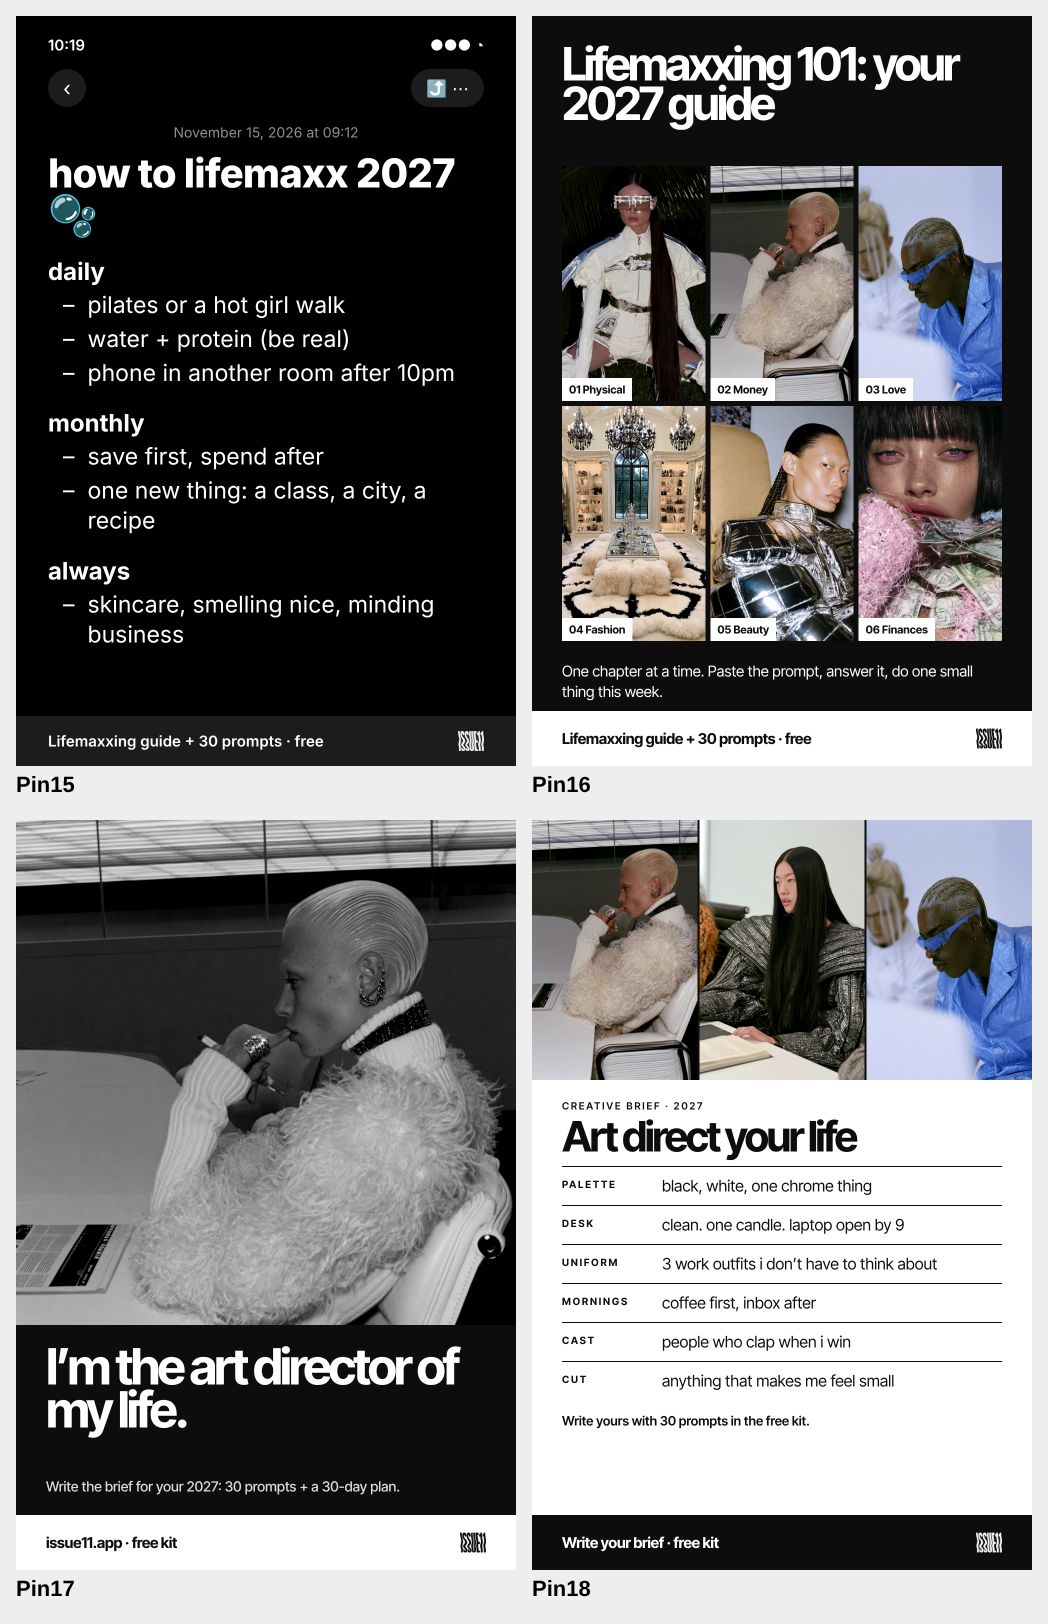
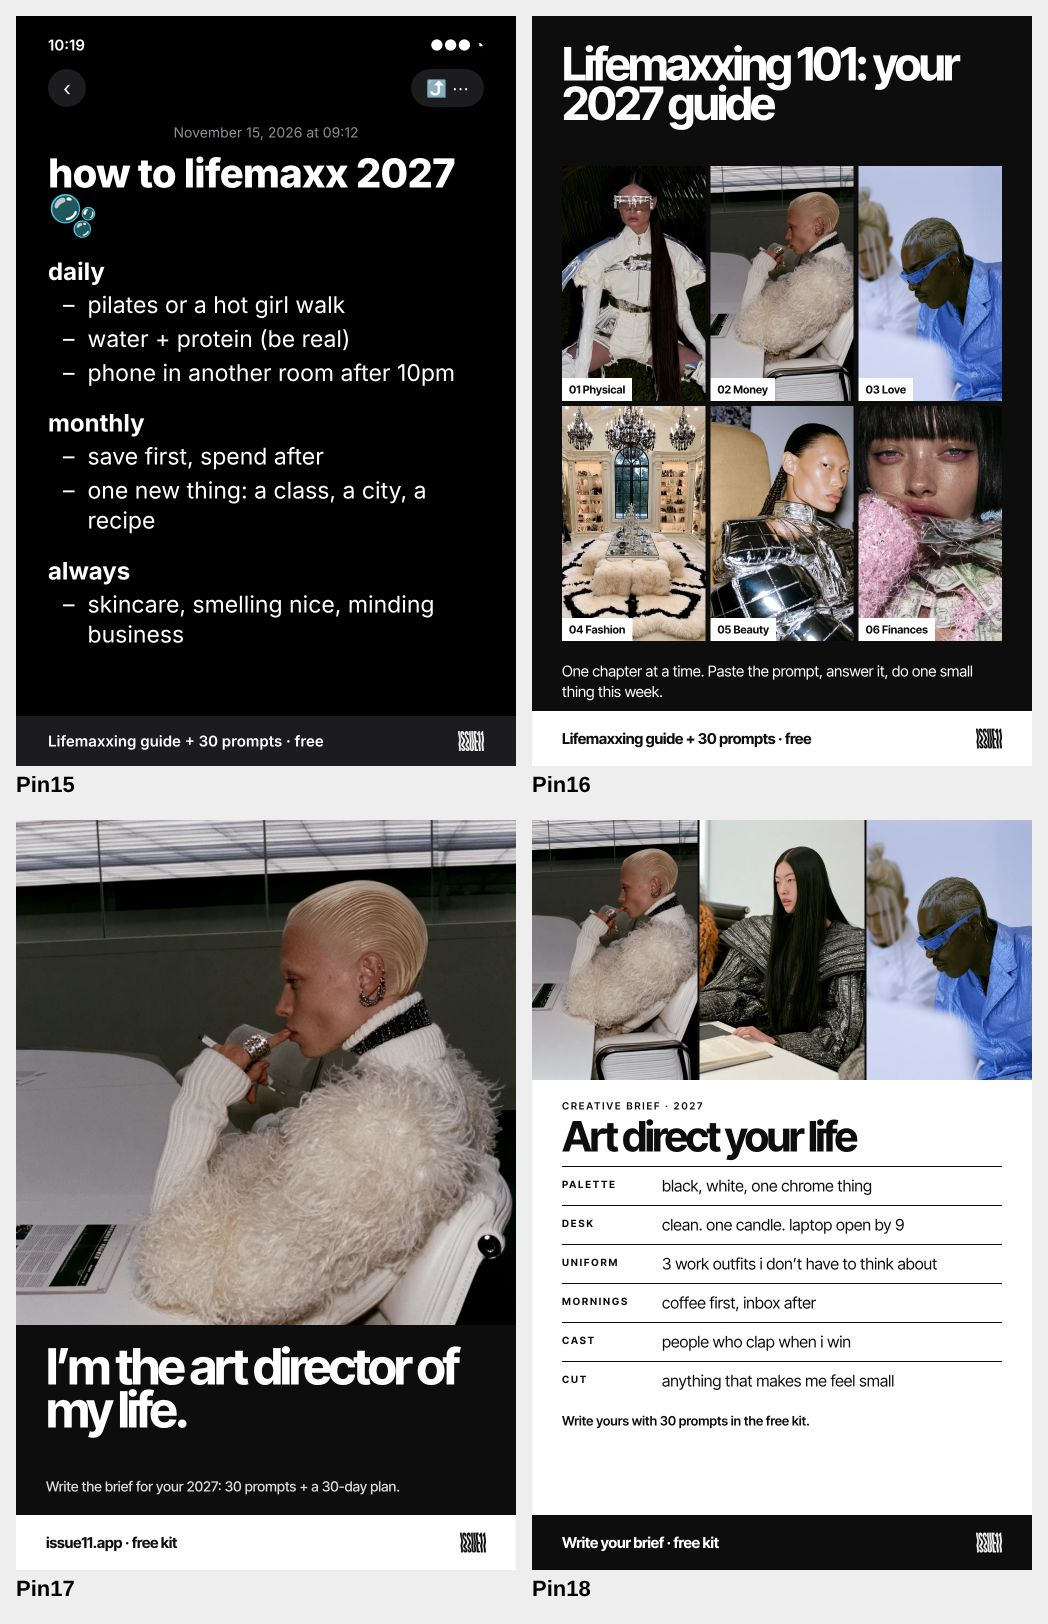
Pins: no B&W photos (Megan); image request list
Claude-Session: https://claude.ai/code/session_013zCndAMB566ZdjtTW5BiS4

Changed region(s): [[0.2137, 0.5234, 0.4275, 0.6773]]

diff --git a/drafts/pinterest/batch1/Pin17.dc.html b/drafts/pinterest/batch1/Pin17.dc.html
@@ -12,7 +12,7 @@
 <style>body{margin:0}</style>
 </helmet>
 <div style="width:1000px; height:1500px; position:relative; overflow:hidden; background:#0D0D0D; font-family:'Inter Tight', 'Apple Color Emoji','Noto Color Emoji','Segoe UI Emoji', sans-serif; color:#0D0D0D">
-<img src="/_blob/3ffd68c0b9a6904c16daec8559ee45b3" alt="Aspirational editorial photo" style="display:block; object-fit:cover; object-position:50% 8%; position:absolute; left:0; top:0; width:1000px; height:1010px; filter:grayscale(1) contrast(1.18) brightness(0.96)"><p style="position:absolute; left:60px; right:60px; top:1050px; margin:0; color:#FFFFFF; font-size:100px; font-weight:700; letter-spacing:-0.06em; line-height:0.86">I’m the art director of my life.</p><p style="position:absolute; left:60px; right:60px; bottom:150px; margin:0; color:#FFFFFF; font-size:28px; font-weight:500; opacity:0.85">Write the brief for your 2027: 30 prompts + a 30-day plan.</p><div style="position:absolute; left:0; right:0; bottom:0; height:110px; padding:0 60px; box-sizing:border-box; background:#FFFFFF; color:#0D0D0D; display:flex; justify-content:space-between; align-items:center"><span style="font-size:30px; font-weight:700; letter-spacing:-0.02em">issue11.app · free kit</span><img src="/_blob/d196614efc6265e2205729134fb523b8" alt="ISSUE11" style="height:40px; width:auto;  "></div>
+<img src="/_blob/3ffd68c0b9a6904c16daec8559ee45b3" alt="Aspirational editorial photo" style="display:block; object-fit:cover; object-position:50% 8%; position:absolute; left:0; top:0; width:1000px; height:1010px; filter:contrast(1.06) saturate(0.95)"><p style="position:absolute; left:60px; right:60px; top:1050px; margin:0; color:#FFFFFF; font-size:100px; font-weight:700; letter-spacing:-0.06em; line-height:0.86">I’m the art director of my life.</p><p style="position:absolute; left:60px; right:60px; bottom:150px; margin:0; color:#FFFFFF; font-size:28px; font-weight:500; opacity:0.85">Write the brief for your 2027: 30 prompts + a 30-day plan.</p><div style="position:absolute; left:0; right:0; bottom:0; height:110px; padding:0 60px; box-sizing:border-box; background:#FFFFFF; color:#0D0D0D; display:flex; justify-content:space-between; align-items:center"><span style="font-size:30px; font-weight:700; letter-spacing:-0.02em">issue11.app · free kit</span><img src="/_blob/d196614efc6265e2205729134fb523b8" alt="ISSUE11" style="height:40px; width:auto;  "></div>
 </div>
 </x-dc>
 <script type="text/x-dc" data-dc-script data-props='{"$preview":{"width":1000,"height":1500}}'>

diff --git a/drafts/pinterest/batch1/Pin08.dc.html b/drafts/pinterest/batch1/Pin08.dc.html
@@ -12,7 +12,7 @@
 <style>body{margin:0}</style>
 </helmet>
 <div style="width:1000px; height:1500px; position:relative; overflow:hidden; background:#0D0D0D; font-family:'Inter Tight', 'Apple Color Emoji','Noto Color Emoji','Segoe UI Emoji', sans-serif; color:#0D0D0D">
-<img src="/_blob/9034e8205048f219499561307a1c9748" alt="Aspirational editorial photo" style="display:block; object-fit:cover; object-position:50% 20%; position:absolute; left:0; top:0; width:1000px; height:1010px; filter:grayscale(1) contrast(1.18) brightness(0.96)"><p style="position:absolute; left:60px; right:60px; top:1050px; margin:0; color:#FFFFFF; font-size:100px; font-weight:700; letter-spacing:-0.06em; line-height:0.86">I’m not behind. I’m becoming.</p><p style="position:absolute; left:60px; right:60px; bottom:150px; margin:0; color:#FFFFFF; font-size:28px; font-weight:500; opacity:0.85">A 30-day self improvement plan, 5 minutes a day.</p><div style="position:absolute; left:0; right:0; bottom:0; height:110px; padding:0 60px; box-sizing:border-box; background:#FFFFFF; color:#0D0D0D; display:flex; justify-content:space-between; align-items:center"><span style="font-size:30px; font-weight:700; letter-spacing:-0.02em">issue11.app · free kit</span><img src="/_blob/d196614efc6265e2205729134fb523b8" alt="ISSUE11" style="height:40px; width:auto;  "></div>
+<img src="/_blob/9034e8205048f219499561307a1c9748" alt="Aspirational editorial photo" style="display:block; object-fit:cover; object-position:50% 20%; position:absolute; left:0; top:0; width:1000px; height:1010px; filter:contrast(1.06) saturate(0.95)"><p style="position:absolute; left:60px; right:60px; top:1050px; margin:0; color:#FFFFFF; font-size:100px; font-weight:700; letter-spacing:-0.06em; line-height:0.86">I’m not behind. I’m becoming.</p><p style="position:absolute; left:60px; right:60px; bottom:150px; margin:0; color:#FFFFFF; font-size:28px; font-weight:500; opacity:0.85">A 30-day self improvement plan, 5 minutes a day.</p><div style="position:absolute; left:0; right:0; bottom:0; height:110px; padding:0 60px; box-sizing:border-box; background:#FFFFFF; color:#0D0D0D; display:flex; justify-content:space-between; align-items:center"><span style="font-size:30px; font-weight:700; letter-spacing:-0.02em">issue11.app · free kit</span><img src="/_blob/d196614efc6265e2205729134fb523b8" alt="ISSUE11" style="height:40px; width:auto;  "></div>
 </div>
 </x-dc>
 <script type="text/x-dc" data-dc-script data-props='{"$preview":{"width":1000,"height":1500}}'>

diff --git a/drafts/pinterest/batch1/generator-v6.py b/drafts/pinterest/batch1/generator-v6.py
@@ -103,7 +103,7 @@ def p16():
 days=["Write your 2027 list","Pick 1 glow up habit","5-min morning","Walk 20 min","Clear one drawer","Money date","Text a friend","Say no, kindly","Plan 1 outfit","Skincare + water","Rest day","Your savings number","List your wins","Ask for more","Try a new class","Unfollow 10","Read 10 pages","Budget with fun","Cook something nice","Rest day","Letter from future you","1 brave email","Style 3 outfits","Early night","Weekly savings goal","Call your bestie","Glow up check-in","Reset your space","Rest day","Write your cover lines"]
 P=[("Pin03","Glow up checklist 2027 · B&W photo",p03()),("Pin04","ChatGPT prompts for self improvement · B&W",p04()),("Pin05","ChatGPT prompts 2027 rebrand · B&W",p05()),
    ("Pin07","Self improvement plan 2027 · B&W printable",p07()),
-   ("Pin08","Self improvement plan · B&W type card",bigtype("e27","I’m not behind. I’m becoming.","A 30-day self improvement plan, 5 minutes a day.",bw=True)),
+   ("Pin08","Self improvement plan · B&W type card",bigtype("e27","I’m not behind. I’m becoming.","A 30-day self improvement plan, 5 minutes a day.")),
    ("Pin10","How to rebrand yourself · B&W type card",bigtype("e22","Becoming me again, on purpose.","How to rebrand yourself in 2027: 30 prompts + a 30-day plan.")),
    ("Pin11","Personal rebrand prompts · B&W chapters",p11()),("Pin13","Future self letter · B&W",p13()),("Pin16","Lifemaxxing 101 · B&W",p16())]
 def p18():
@@ -112,7 +112,7 @@ def p18():
     rr="".join(f'<div style="display:grid; grid-template-columns:200px 1fr; padding:18px 0; border-top:2px solid {INK}"><b style="font-size:20px; letter-spacing:0.18em; text-transform:uppercase; padding-top:5px">{a}</b><span style="font-size:32px; line-height:1.25">{b}</span></div>' for a,b in rows)
     return (W, f'<div style="position:absolute; left:0; top:0; width:1000px; height:520px; overflow:hidden; display:grid; grid-template-columns:repeat(3,1fr); gap:4px; background:{INK}">{tiles}</div>'
       f'<div style="position:absolute; left:60px; right:60px; top:560px">{label("Creative brief · 2027")}<h1 style="margin:12px 0 22px; font-size:84px; font-weight:700; letter-spacing:-0.06em; line-height:0.88">Art direct your life</h1>{rr}<p style="margin:26px 0 0; font-size:26px; font-weight:600">Write yours with 30 prompts in the free kit.</p></div>'+foot("Write your brief · free kit"))
-P+=[("Pin17","Art director of my life · B&W type card",bigtype("e29","I’m the art director of my life.","Write the brief for your 2027: 30 prompts + a 30-day plan.",bw=True)),
+P+=[("Pin17","Art director of my life · B&W type card",bigtype("e29","I’m the art director of my life.","Write the brief for your 2027: 30 prompts + a 30-day plan.")),
     ("Pin18","Art direct your life · creative brief",p18())]
 c=json.load(open(f"{R}/project/canvas.json"))
 for k,t,(bg,inner) in P:

diff --git a/.pipeline/lessons.md b/.pipeline/lessons.md
@@ -537,3 +537,4 @@ Format: `- YYYY-MM-DD · <agent> · <what> · why · cost`
 - 2026-11-15 DECISION (Megan): "ok let's set up the API". This is the Pinterest API for real keyword volume ranges: GET /v5/ad_accounts/{id}/keywords/metrics, scope ads:read only (read-only). Steps: (1) ads account, (2) developer app + trial access, (3) token with ads:read only, (4) save it with request_credential for api.pinterest.com (never in chat). Then the Pinterest SEO agent uses it per batch. Check the token's expiry when it's set up and set a reminder.
 - 2026-11-15 RULE (Megan, word for word, shortened): "Before anything visual is called done: 1. Screenshot it and actually look, on desktop and on phone. 2. Faces and heads… 3. No stray logos or text… 4. Readable… 5. The image fits the topic… 6. On-brand… 7. Compare against what you asked for… 8. Re-check after publishing". Plus: "Give these instructions to any agent doing visual work please, and always ask it to self-improve and self-correct if things seem odd, cropped, or not relevant (example of non relevant content: A money picture for a beauty prompt)". Saved in design/VISUAL-QA.md, CLAUDE.md, the-editor.md, growth-pinterest-seo.md and MISE-EN-PAGE.md. This replaces "never screenshot unless asked".
 - 2026-11-15 LESSON: the first QA pass on pins v6 found 4 things. Square thumbnails were cutting heads (fixed by giving each thumbnail its own focal point). Closet photos were on the Beauty and Finances chapters (now matched to each chapter). Pin 05 and Pin 07 text was too small at 390px (now bigger, with fewer items). Pins 08 and 17 used the same photo. Check thumbnails and the 390px phone view every time.
+- 2026-11-15 RULE (Megan): "Also no images in black and white". Photos are always in colour, and only the pin design (type, frames, footers) is black and white. This replaces the earlier "a few B&W photos for contrast". Pins 08 and 17 are now in colour.

diff --git a/drafts/pinterest/IMAGE-REQUESTS.md b/drafts/pinterest/IMAGE-REQUESTS.md
@@ -1,0 +1,14 @@
+# Images we need (Megan offered to create them)
+
+Megan: "If you need a specific type of imagery thst correlates with the content please let me know and I'll create them".
+Specs for every shot: vertical 2:3 (for example 1000×1500 or larger), in colour (never black and white), room above the head (no cropped foreheads), no brand logos, car badges or readable text, and the same aspirational, editorial mood as the closet and money photos.
+
+| # | Shot | For which pins | Why |
+|---|---|---|---|
+| 1 | Vanity with skincare and perfume, a hand reaching for a bottle | Pins 11 + 16 (Beauty chapter), glow up checklist | We have no beauty photo; a fashion shot is standing in |
+| 2 | Woman writing in a journal (pen on paper, face partly visible) | Pins 13 + 14 (future self letter), the Journal Prompts lead magnet | All journal pins use a closet photo right now |
+| 3 | Desk with a laptop, an open magazine and coffee, a woman working | Pins 17 + 18 (art director of my life), Money chapter | Fits "art direct your life" better than the fashion office shots |
+| 4 | Pilates or a walk outside in a matching set | Pins 03 + 15 (glow up checklist, lifemaxxing), Physical chapter | Physical is currently a fashion shot |
+| 5 | Vision board on a wall or a table with cut-out pictures, pins and a hand | The vision board batch (next, before the New Year spike) | Vision board terms peak in late Dec / Jan |
+| 6 | A phone in hand showing a notes-app checklist (text unreadable or blurred) | Glow up checklist pins | Ties the Notes pins to a real moment |
+| 7 | Two or three friends laughing at dinner or brunch | Love chapter (Pins 11 + 16) | Love has a work photo right now |

diff --git a/.claude/agents/growth-pinterest-seo.md b/.claude/agents/growth-pinterest-seo.md
@@ -33,7 +33,7 @@ Research (data before ideas):
 Pin rules (approved by Megan, Nov 14–15, 2026):
 - **Copy the viral format, fill it with our offer.** Every pin points to one real lead magnet, and the pin shows what's inside it.
 - **Notes pins:** a dark iPhone Notes screenshot with no photos. They should sound like a real girl's phone: lowercase, concrete, a little messy ("drink water. actually"). Megan's own note is the bar: a short title, about 4 plain items, real numbers, one item ending in "?". Never copy Megan's personal goals.
-- **All other pins are photo-led:** big photos in colour, with high-contrast black and white design (type, frames, footers). A few B&W photos are fine for contrast. No pastel backgrounds, no ombré, no hot pink.
+- **All other pins are photo-led:** big photos in colour, with high-contrast black and white design (type, frames, footers). Photos are never black and white (Megan: "Also no images in black and white"). No pastel backgrounds, no ombré, no hot pink.
 - **Crops:** set a focal point per photo, and never cut faces or put text on a face.
 - **Logo:** the ISSUE11 logo is on every pin. Inter Tight is the only font. Pins are 1000×1500.
 - **Lexicon and words:** use lexicon terms and real search phrases ("glow up", "lifemaxxing", "personal rebrand", "i'm the art director of my life").
